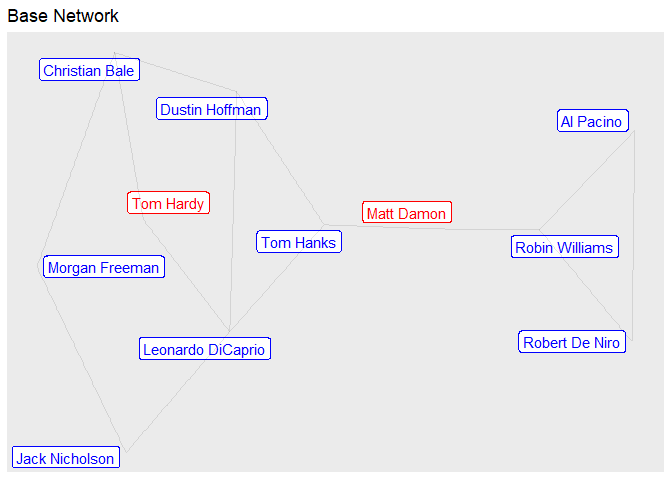
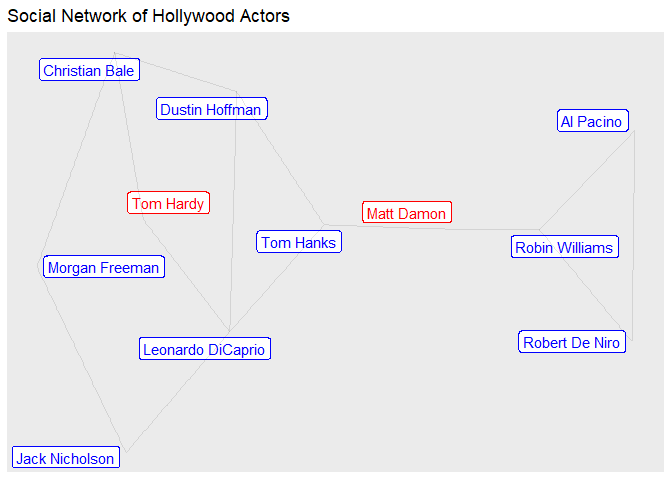
final update

Changed region(s): [[0.0, 0.0, 0.4375, 0.0625]]

diff --git a/index.md b/index.md
@@ -11,22 +11,24 @@ Hollywood Actors.
 Data was downloaded from the provided link and then re-uploaded to
 dedicated Github for this assignment
 
-    IGRAPH 2be31ce UNW- 11 14 -- 
-    + attr: wonOscar (v/n), color (v/c), name (v/c), id (v/c), weight (e/n)
-
 ``` r
-base=ggraph(graph = actors)
+dataGitLink='https://github.com/DACSS690C26/Homework_2/raw/main/hollywood.graphml'
+actors=read_graph(dataGitLink,format='graphml')
+#summary(actors)
 ```
 
-    Using "stress" as default layout
+The file includes data on 11 actors, all men, with the majority having
+won oscars in the past.
 
 ``` r
+#plotting the base network while distinguishing Oscar winners
+base=ggraph(graph = actors, layout = "stress")
 base + geom_node_label(aes(label = name,
                            color=as.factor(wonOscar)),
                        repel = TRUE,show.legend = F) + 
   geom_edge_link(alpha=0.1) + 
   scale_color_manual(values = c('red','blue')) +
-  labs(title = "Base Network")
+  labs(title = "Social Network of Hollywood Actors")
 ```
 
 ![](index_files/figure-commonmark/unnamed-chunk-3-1.png)
@@ -35,43 +37,20 @@ base + geom_node_label(aes(label = name,
 #blue = yes, red = no
 ```
 
+### Calculate Centrality Measures
+
+Measures of centrality were calculated, including eigen centrality,
+closeness, and betweenness. These values were then used to determine the
+hubs of the network, namely Pacino, De Niro, and Williams.
+
 ``` r
 eigen=eigen_centrality (actors)$vector
-print(eigen)#influence of node in network
-```
 
-       Robin Williams         Tom Hardy    Dustin Hoffman Leonardo DiCaprio 
-          0.606705039       0.014699527       0.034689773       0.037143649 
-            Tom Hanks         Al Pacino    Morgan Freeman    Robert De Niro 
-          0.072098921       1.000000000       0.007860685       1.000000000 
-           Matt Damon    Jack Nicholson    Christian Bale 
-          0.188206119       0.012477963       0.015873210 
 
-``` r
 close = closeness(actors, normalized = TRUE)
-close
-```
 
-       Robin Williams         Tom Hardy    Dustin Hoffman Leonardo DiCaprio 
-            0.3571429         0.3703704         0.4545455         0.4761905 
-            Tom Hanks         Al Pacino    Morgan Freeman    Robert De Niro 
-            0.5000000         0.2702703         0.3125000         0.2702703 
-           Matt Damon    Jack Nicholson    Christian Bale 
-            0.4347826         0.3703704         0.3846154 
-
-``` r
 betw <- betweenness(actors, normalized = TRUE)
-betw
-```
 
-       Robin Williams         Tom Hardy    Dustin Hoffman Leonardo DiCaprio 
-           0.37777778        0.01111111        0.17777778        0.33333333 
-            Tom Hanks         Al Pacino    Morgan Freeman    Robert De Niro 
-           0.53333333        0.00000000        0.02222222        0.00000000 
-           Matt Damon    Jack Nicholson    Christian Bale 
-           0.46666667        0.07777778        0.11111111 
-
-``` r
 DFCentrality=as.data.frame(cbind(eigen,close,betw),stringsAsFactors = F)
 names(DFCentrality)=c('Eigenvector','Closeness','Betweenness')
 
@@ -91,21 +70,25 @@ head(DFCentrality)
     6  1.00000000 0.2702703  0.00000000         Al Pacino
 
 ``` r
+#plot closeness by betweenness with Eigenvector denoting size
+
 ggplot(DFCentrality, aes(x=Betweenness, y=Closeness)) + 
   theme_classic() +
-  geom_text(aes(label=person,size=Eigenvector),show.legend = T,alpha=0.5) 
+  geom_text(aes(label=person,size=Eigenvector),show.legend = T,alpha=0.5) +
+  labs(title = "Actor Hubs of the Network",
+       subtitle = "Pacino, De Niro, and Williams all stand out as Actor Node Hubs")
 ```
 
-![](index_files/figure-commonmark/unnamed-chunk-8-1.png)
+![](index_files/figure-commonmark/unnamed-chunk-5-1.png)
+
+In looking at the Hub nodes, we can see they are all located in a
+specific region of the network.
 
 ``` r
 HubNodes=dplyr::slice_max(DFCentrality, order_by = Eigenvector, n = 3)$person
-HubNodes
-```
+#HubNodes
 
-    [1] "Al Pacino"      "Robert De Niro" "Robin Williams"
 
-``` r
 NodeCount=length(V(actors))
 
 V(actors)$label=''
@@ -119,22 +102,24 @@ for (index in seq(1:NodeCount)){
 
 
 
-base=ggraph(graph = actors)
-```
-
-    Using "stress" as default layout
-
-``` r
+base=ggraph(graph = actors, layout = "stress")
 base  + geom_node_label(aes(label = label), 
                         repel = TRUE,
                         show.legend = F,
-                        color='red') + 
-  geom_edge_link(alpha=0.1)
+                        color='black') + 
+  geom_edge_link(alpha=0.1) + 
+  geom_node_point()
 ```
 
-![](index_files/figure-commonmark/unnamed-chunk-9-1.png)
+![](index_files/figure-commonmark/message%20-%20False-1.png)
 
-Communities?
+### Test for presence of Communities
+
+To test for the presence of communities within the network, we calculate
+the Ratio between the Actors transitivity and an ensemble of random
+networks. We found a ratio of 1.90, which being greater than 1,
+indicates that a community likely exists, warranting further
+examination.
 
 ``` r
 # Generate an ensemble of 1000 rewired random networks 
@@ -146,14 +131,10 @@ random_transitivities <- replicate(replicates, {
   transitivity(RandomNet, type = "global")
 })
 mean_random_transitivities=mean(random_transitivities)
-```
 
-``` r
 # Calculate your empirical transitivity
 empirical_transitivity <- transitivity(actors, type = "global")
-```
 
-``` r
 ### Report
 report_table <- data.frame(
   Metric = c("Actors transitivity", "Random-network mean", "Ratio"),
@@ -169,6 +150,12 @@ knitr::kable(report_table)
 | Actors transitivity | 0.2500 |
 | Random-network mean | 0.1310 |
 | Ratio               | 1.9084 |
+
+### Analyze Possible Communities Via Various Algorithms
+
+We tested the presence of communities within the social network via
+Louvain, Walk trap, Fast Greedy, Infomap, and Edge Betweenness, looking
+for the best algorithm.
 
 ``` r
 # Run all five community-detection algorithms
@@ -209,164 +196,51 @@ print(summary_table)
     4          louvain          3    0.4121094       4, 4, 3
     5      fast_greedy          3    0.4121094       4, 4, 3
 
+Through examining the results of the various algorithms, we can see that
+they are relatively similar in modularity, with Walktrap, Infomap, and
+Edge Betweenness resulting in modularities of approximately 0.420, while
+Louvain and Fast Greedy resulted in modularity scores of 0.412. Both
+sets of modularity scores are moderate and indicative of string
+partitioning. The numbers of clusters present were found to be either 2
+or 3, with Walktrap, Louvain, and Fast Greedy resulting in 3 clusters
+while Infomap and Betweenness resulted in 2. Cluster sizes were similar
+across algorithms with equal cluster sizes.
+
+For our purposes, we can say that the Walktrap algorithm was the best
+method.
+
 ``` r
 for (name in names(algos)) {
   memb <- membership(algos[[name]])
   attr_name <- name
   actors <- set_vertex_attr(actors, attr_name,
-                              index = names(memb),
-                              # this is important for exporting
-                              value = as.vector(memb))
+                            index = names(memb),
+                            # this is important for exporting
+                            value = as.vector(memb))
 }
-# verify new attributes
-vertex_attr_names(actors)
-```
 
-     [1] "wonOscar"         "color"            "name"             "id"              
-     [5] "label"            "louvain"          "walktrap"         "fast_greedy"     
-     [9] "infomap"          "edge_betweenness"
 
-``` r
-base=ggraph(graph = actors) +
+
+#walktrap
+base=ggraph(graph = actors, layout = "stress") +
   geom_edge_link(alpha=0.2)
-```
 
-    Using "stress" as default layout
-
-``` r
-base + geom_node_point(aes(color=as.factor(louvain)), 
-                       show.legend = T, size=4)+
-  geom_node_text(aes(label = name), 
-                 repel = TRUE, 
-                 max.overlaps = 50, # avoid overlap
-                 size = 2.5)
-```
-
-![](index_files/figure-commonmark/unnamed-chunk-15-1.png)
-
-``` r
-#edge betweenness plot?
-base=ggraph(graph = actors) +
-  geom_edge_link(alpha=0.2)
-```
-
-    Using "stress" as default layout
-
-``` r
-base + geom_node_point(aes(color=as.factor(edge_betweenness)), 
-                       show.legend = T, size=4)+
-  geom_node_text(aes(label = name), 
-                 repel = TRUE, 
-                 max.overlaps = 50, # avoid overlap
-                 size = 2.5)
-```
-
-![](index_files/figure-commonmark/unnamed-chunk-16-1.png)
-
-``` r
-#edge betweenness plot?
-base=ggraph(graph = actors) +
-  geom_edge_link(alpha=0.2)
-```
-
-    Using "stress" as default layout
-
-``` r
 base + geom_node_point(aes(color=as.factor(walktrap)), 
                        show.legend = T, size=4)+
   geom_node_text(aes(label = name), 
                  repel = TRUE, 
                  max.overlaps = 50, # avoid overlap
-                 size = 2.5)
-```
-
-![](index_files/figure-commonmark/unnamed-chunk-17-1.png)
-
-``` r
-#edge betweenness plot?
-base=ggraph(graph = actors) +
-  geom_edge_link(alpha=0.2)
-```
-
-    Using "stress" as default layout
-
-``` r
-base + geom_node_point(aes(color=as.factor(infomap)), 
-                       show.legend = T, size=4)+
-  geom_node_text(aes(label = name), 
-                 repel = TRUE, 
-                 max.overlaps = 50, # avoid overlap
-                 size = 2.5)
-```
-
-![](index_files/figure-commonmark/unnamed-chunk-18-1.png)
-
-``` r
-louvain_result <- algos$louvain
-memb <- membership(louvain_result)
-num_communities <- length(louvain_result)
-
-# comm_edges[i, j] will hold the density between community i and community j
-# (diagonal = internal density, off-diagonal = cross-community density)
-comm_edges <- matrix(0, nrow = num_communities, ncol = num_communities)
-
-for (i in 1:num_communities) {
-  for (j in 1:num_communities) {
-    if (i == j) {
-      # Internal density of a community -- edge_density() correctly uses
-      # 2*edges / (n*(n-1)), no manual formula needed
-      sub <- induced_subgraph(actors, which(memb == i))
-      comm_edges[i, j] <- edge_density(sub)
-    } else {
-      # Cross density: edges crossing between community i and community j,
-      # divided by every possible pair between the two groups
-      nodes_i <- which(memb == i)
-      nodes_j <- which(memb == j)
-      el <- as_edgelist(actors, names = FALSE)
-      boundary <- sum((el[,1] %in% nodes_i & el[,2] %in% nodes_j) |
-                        (el[,1] %in% nodes_j & el[,2] %in% nodes_i))
-      possible <- length(nodes_i) * length(nodes_j)
-      comm_edges[i, j] <- boundary / possible
-    }
-  }
-}
-
-# Plot the density matrix as a heatmap; diagonal cells are internal density,
-# off-diagonal cells show how "leaky" the boundary is between each pair
-dimnames(comm_edges) <- list(1:num_communities, 1:num_communities)
-df <- melt(comm_edges, varnames = c("Community_i", "Community_j"), value.name = "density")
-
-ggplot(df, aes(x = factor(Community_j), y = factor(Community_i), fill = density)) +
-  geom_tile(color = "white") +
-  geom_text(aes(label = sprintf("%.3f", density)), size = 4) +
-  scale_fill_gradient(low = "#FFFFB2", high = "#BD0026", name = "Edge\ndensity") +
-  scale_y_discrete(limits = rev) +
-  coord_equal() +
-  labs(title = "Edge density between communities", x = "Community", y = "Community") +
-  theme_minimal(base_size = 12) +
-  theme(panel.grid = element_blank())
-```
-
-![](index_files/figure-commonmark/unnamed-chunk-19-1.png)
-
-``` r
-V(actors)$degree = degree(actors) # first compute node degree and assign
-ggraph(actors, layout = 'hive', 
-       axis = louvain,
-       sort.by = degree
-) +   
-  geom_edge_hive(color='grey80') +   
-  geom_axis_hive(aes(colour = as.factor(louvain)), 
-                 label = F) + 
-  geom_node_point(aes(colour = as.factor(louvain))) +
-  geom_node_text(aes(label = name), 
-                 repel = TRUE, 
-                 max.overlaps = 50, # avoid overlap
                  size = 2.5) +
-  coord_fixed()
+  labs(title = "WalkTrap Algo Plot",
+       subtitle = "Three Communities can be identified via the Walktrap Algorithm")
 ```
 
-![](index_files/figure-commonmark/unnamed-chunk-20-1.png)
+![](index_files/figure-commonmark/unnamed-chunk-8-1.png)
+
+Looking at the final graph of the network, we can see the WalkTrap
+algorithm highlighted three distinct communities. The largest being
+comprised of 6 nodes, with the others being comprised of 2 nodes and 3
+nodes, respectively.
 
 ``` r
 null_mean <- mean(random_transitivities)
@@ -388,3 +262,8 @@ knitr::kable(test_table)
 |------:|--------:|:-----------------|:----------------|
 |  0.05 |   1.097 | 0.278 (278/1000) | NOT significant |
 |  0.01 |   1.097 | 0.278 (278/1000) | NOT significant |
+
+The transitivity test came back non-significant with a p-value of 0.278,
+far above either threshold. This indicates that the analysis does not
+support the existence of a true community structure based on the data
+provided.
